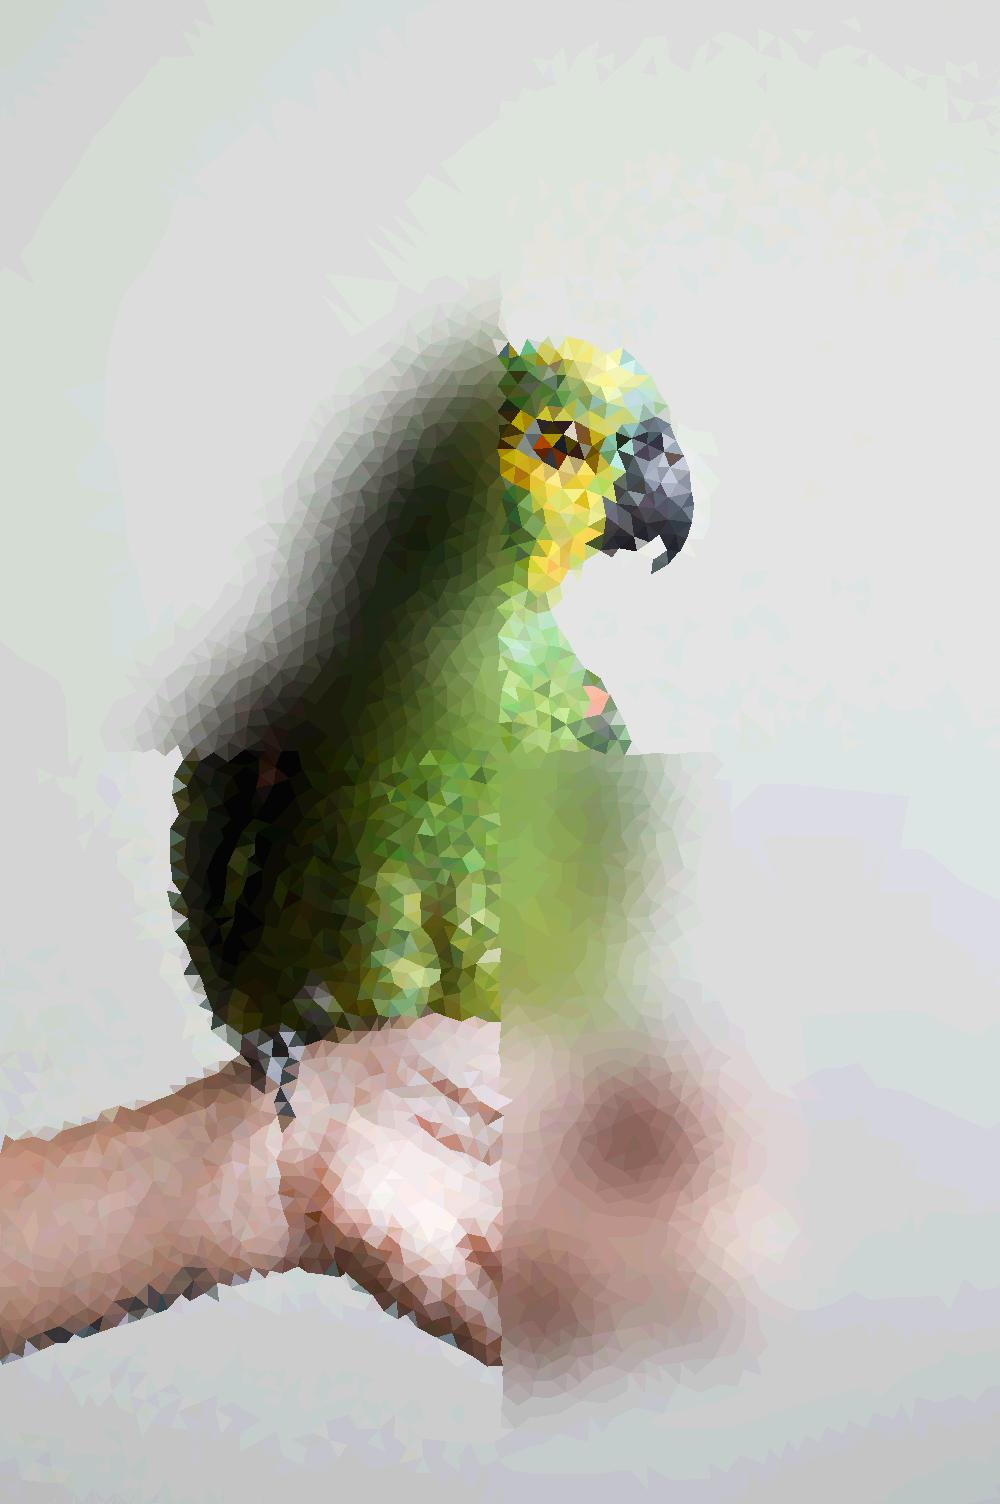
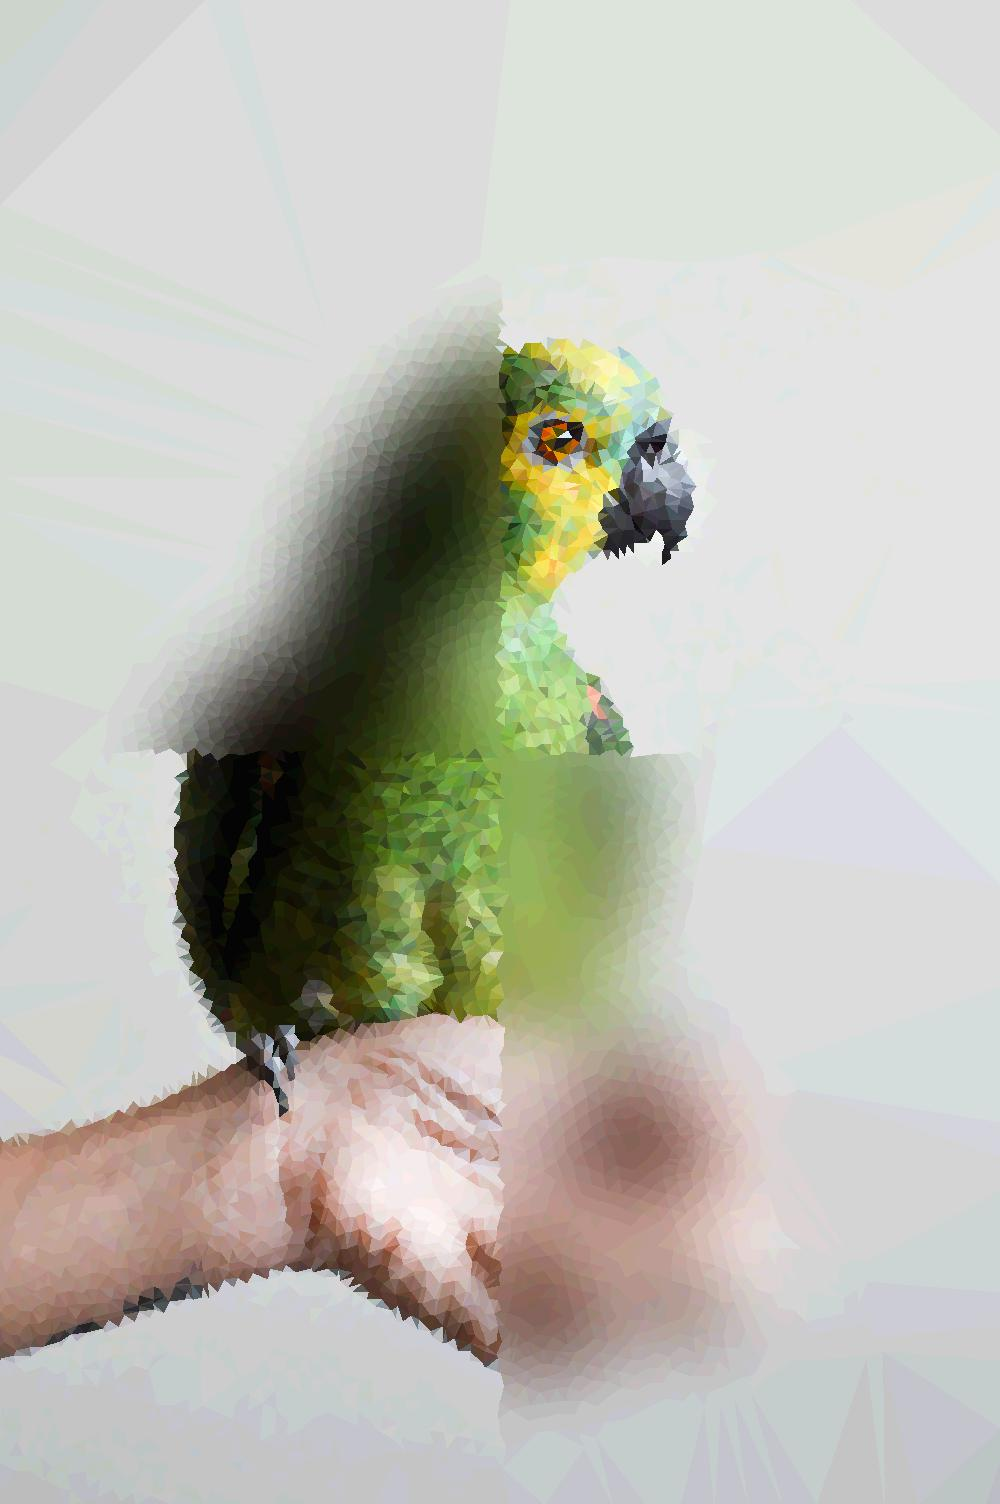
Adjusted parameters

diff --git a/picture.py b/picture.py
@@ -4,7 +4,6 @@ from math import floor
 from skimage.filters.rank.generic import entropy
 from scipy.spatial import Delaunay
 
-
 import pictureTools, entropyCalc
 
 
@@ -33,13 +32,14 @@ class Picture():
         if vCount%2==1:
             return rectanglesMap[::2]
         else:
-            helper1=helper2=[]
+            helper1,helper2=[],[]
             while rectanglesMap!=[]:
                 helper1+=rectanglesMap[0:vCount]
                 helper2+=rectanglesMap[vCount:2*vCount]
                 rectanglesMap=rectanglesMap[2*vCount:]
             helper2=helper2[1:]
             return helper1[::2]+helper2[::2]
+
 
     def splitToTriangles(self,hCount, vCount):
         """Splits image to evenly sized rectangles based on hCount and vCount,
@@ -64,7 +64,6 @@ class Picture():
         alpha = Image.new('L', self.image.size,0)
         draw = ImageDraw.Draw(alpha)
         for shape in shapeMap:
-            print(shape)
             draw.polygon(shape,fill=255)
         return alpha
                 
@@ -98,7 +97,7 @@ class Picture():
         baseImg = self.image.resize((1000, int(self.image.size[1]*1000/self.image.size[0])))
         result=baseImg.copy()
         discourageDistance=floor(numpy.sqrt(baseImg.size[0]*baseImg.size[1] / pointsCount))
-        interestPoints=entropyCalc.interestPointsCalc(baseImg, discourageDistance, pointsCount)
+        interestPoints=entropyCalc.interestPointsCalc(baseImg, discourageDistance, pointsCount)        
 
         for triangle in Delaunay(interestPoints).vertices:
             triangleCoords=[interestPoints[triangle[0]], interestPoints[triangle[1]], interestPoints[triangle[2]]]

diff --git a/entropyCalc.py b/entropyCalc.py
@@ -23,7 +23,7 @@ def lowerEntropy(entropyValues, pointIndex, discourageDistance):
     for y in range(max(0,pointIndex[1]-discourageDistance), min(len(entropyValues)-1,pointIndex[1]+discourageDistance)):
         for x in range(max(0,pointIndex[0]-discourageDistance), min(len(entropyValues[y])-1,pointIndex[0]+discourageDistance)):              
             if numpy.sqrt((x-pointIndex[0])**2 + (y-pointIndex[1])**2) <= discourageDistance:
-                entropyValues[y][x]=entropyValues[y][x]*numpy.sqrt((x-pointIndex[0])**2 + (y-pointIndex[1])**2)/discourageDistance
+                entropyValues[y][x]=entropyValues[y][x]*numpy.sqrt((x-pointIndex[0])**2 + (y-pointIndex[1])**2)/(0.75*discourageDistance)
     return entropyValues
 
 
@@ -45,7 +45,7 @@ def edgePoints(image, distance):
 
 def interestPointsCalc(pic, discourageDistance, pointsNumber):
     """Finds distinctive points of image for triangles corners."""
-    blurred=pic.filter(ImageFilter.GaussianBlur(2))
+    blurred=pic.filter(ImageFilter.GaussianBlur(3))
     entropyValues=imageEntropy(blurred)
     interestPoints=edgePoints(pic, discourageDistance*2)
     for i in range(0,pointsNumber):

diff --git a/example.py b/example.py
@@ -17,7 +17,7 @@ pic3.image.save("output/pexels-simon-berger-1323550_saturate.jpg")
 
 
 
-#----------   Examples of triangulation   ----------
+# ----------   Examples of triangulation   ----------
 pic4 = picture.Picture("input/pexels-caio-56733.jpg")            
 pic4.triangulate(500)    
 pic4.image.save("output/pexels-caio-56733_triangulated_500.jpg")
@@ -28,11 +28,11 @@ pic5.image.save("output/pexels-caio-56733_triangulated_1000.jpg")
 
 pic6 = picture.Picture("input/pexels-caio-56733.jpg")            
 pic6.triangulate(5000)
-pic6.image.save("output/pexels-caio-56733_triangulated_5000_loerdist02.jpg")
+pic6.image.save("output/pexels-caio-56733_triangulated_5000.jpg")
 
 
 
-##----------   Examples of combined blur, lighten and saturation methods used with different shape masks.   ----------
+# ----------   Examples of combined blur, lighten and saturation methods used with different shape masks.   ----------
 # Example 1
 pic7 = picture.Picture("input/pexels-simon-berger-1323550.jpg")
 pic7.saturate("rectangles",4,degree=4)

diff --git a/pictureTools.py b/pictureTools.py
@@ -37,9 +37,9 @@ def triangleColor(triangle, image):
     d=(a+b+c)/2
     r=math.sqrt((d-a)*(d-b)*(d-c)/(d))
 
-    # half edge length of square inscribed in a cricle,
+    # quarter of edge length of square inscribed in a cricle,
     # capped at 2, so the square always exists
-    dist = max(2,r*math.sqrt(2)/2)
+    dist = max(2,r/(math.sqrt(2)*2))
 
     resizedImg=image.crop((
         math.floor(max(0,barycenter[0]-dist)),
